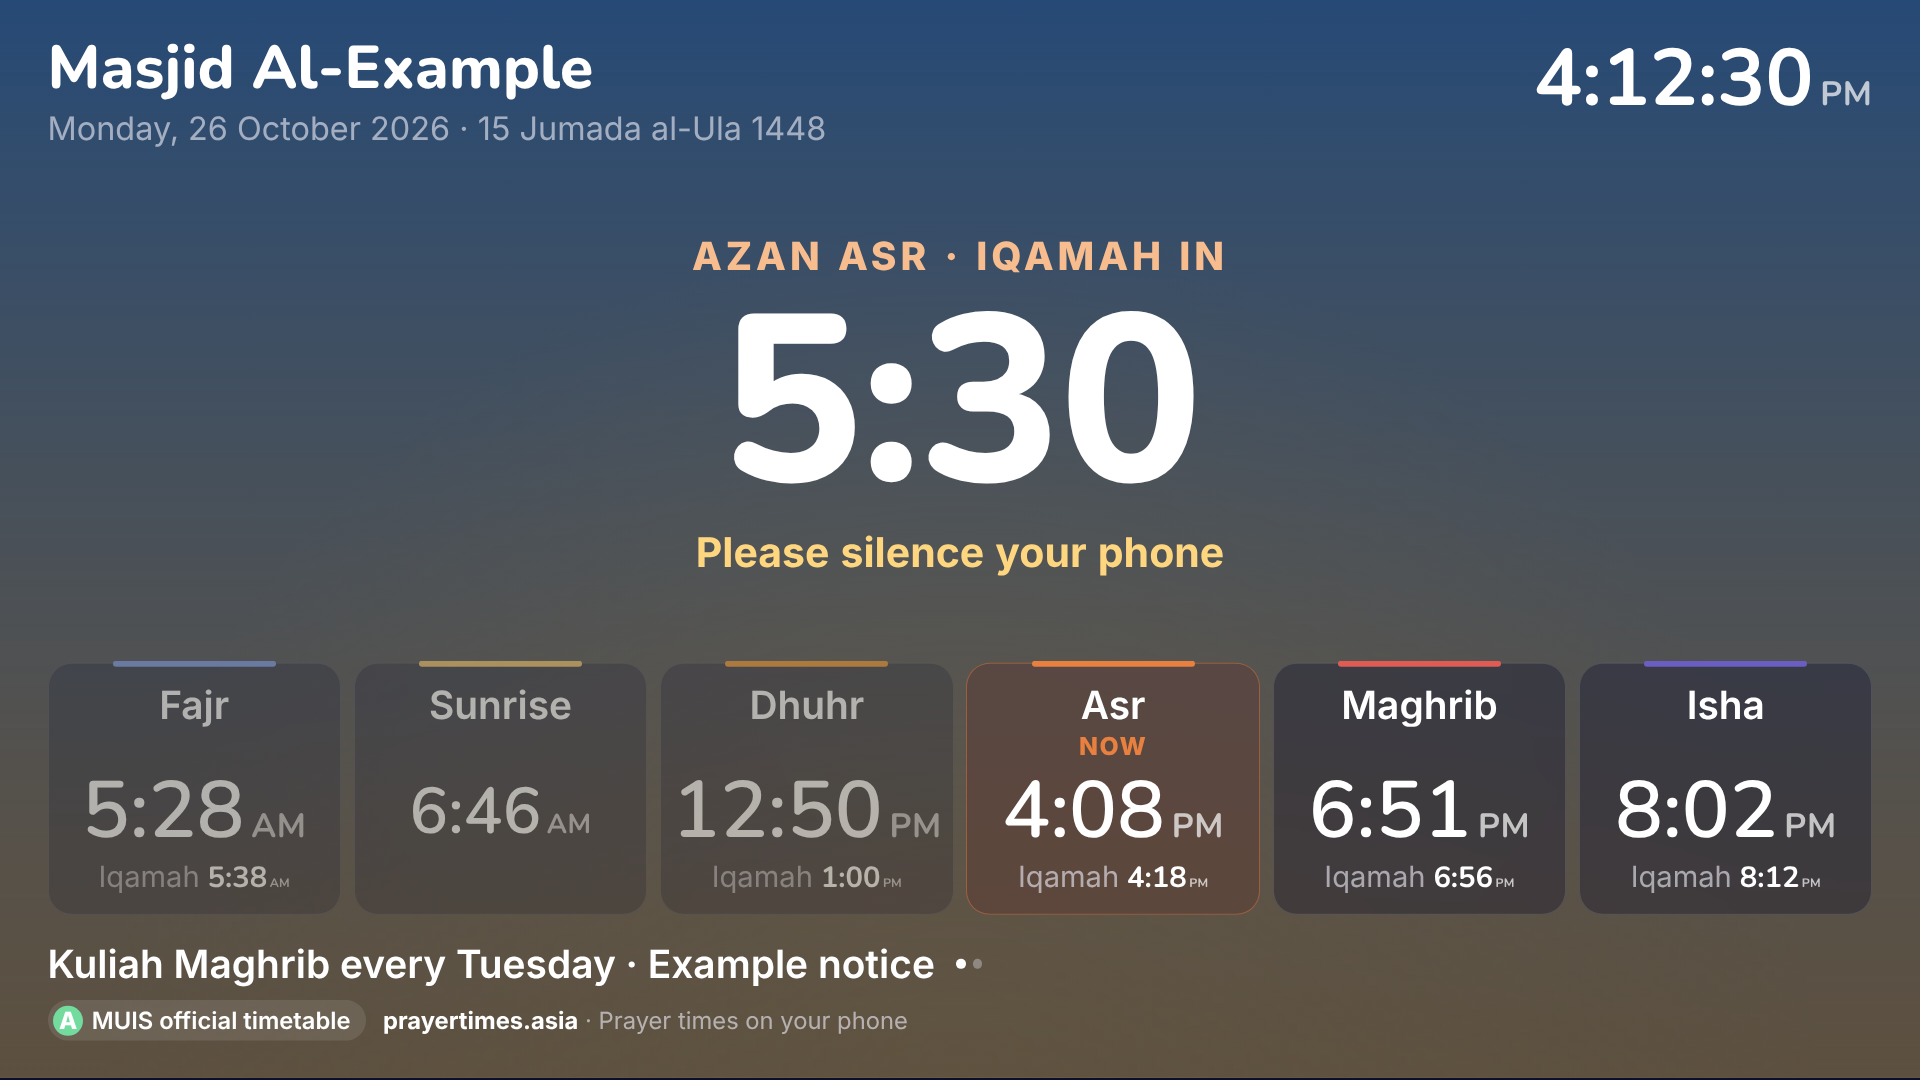
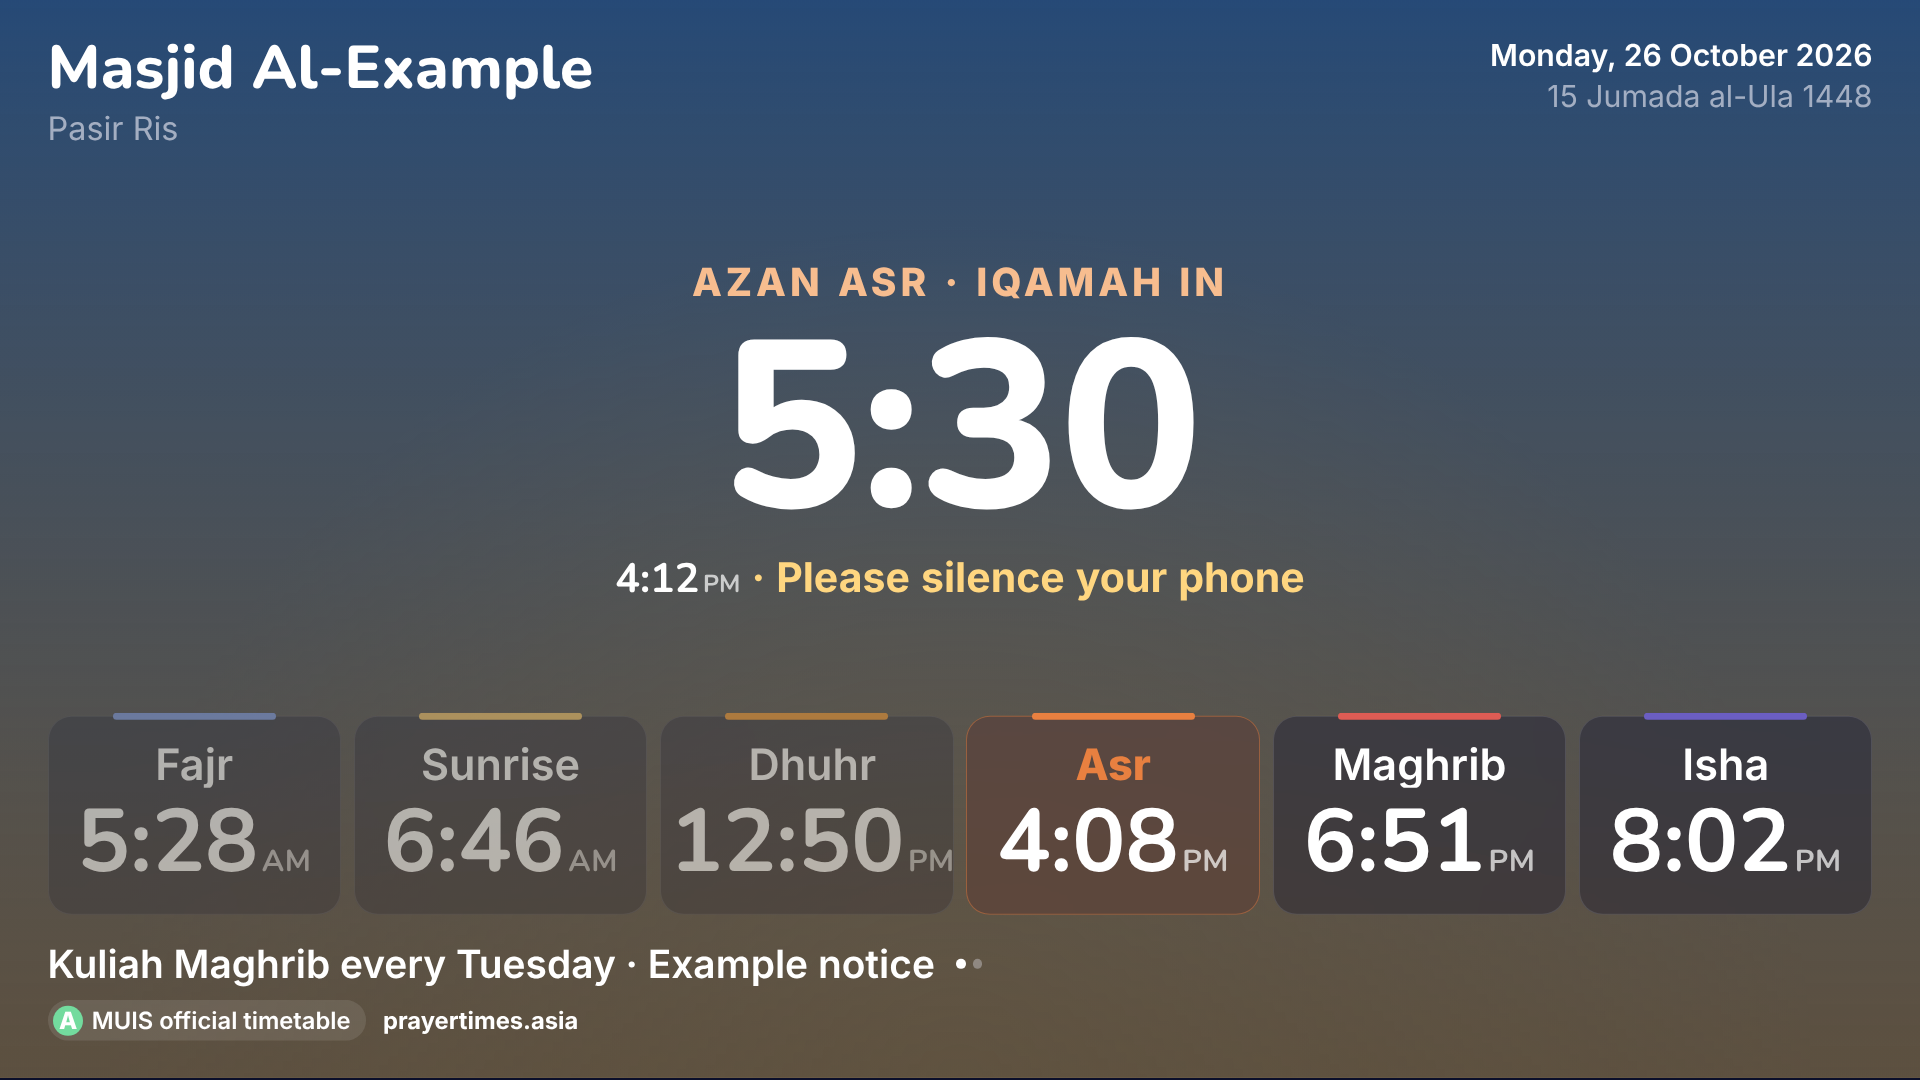
Masjid screen: one moving number, cleaner looks, iqamah hidden by default, readable dropdowns (#20)
* Web: masjid screen for TVs, with a setup page for the committee

A second page (web/screen/) shows the next prayer's countdown, the six times
with iqamah, Jumu'ah khutbah, Ramadan Imsak and rotating notices, using the
same official MUIS/JAKIM/Kemenag tables and engine as the app. It dims during
prayer, keeps the TV awake, shifts against burn-in and reloads at 3 am.
Setup is a phone form that produces one link (settings in the #hash).
docs/masjid-screen.md records the research behind it.

Claude-Session: https://claude.ai/code/session_01N3UT55kGUzTCzRML5iKXZQ

* Masjid screen: English by default, three looks (Night, Day, Board)

Claude-Session: https://claude.ai/code/session_01N3UT55kGUzTCzRML5iKXZQ

* Masjid screen: match the app's look (Living Sky, rounded type, glass cards)

Claude-Session: https://claude.ai/code/session_01N3UT55kGUzTCzRML5iKXZQ

* Masjid screen: Bands, Day Dial and Sun Path looks from the app's styles

Claude-Session: https://claude.ai/code/session_01N3UT55kGUzTCzRML5iKXZQ

* Masjid screen setup: fix overlap on phones, example preview, clearer steps

On phones the preview panel was pinned to the top and slid over the form.
It now sits after the form, and is pinned only on tall desktop windows.
The preview shows example times until a location is chosen. The form is
four numbered steps, then step 5 explains how to put it on the TV, with
a Share button on phones and the raw link tucked away.
[…]

diff --git a/web/src/screen/Display.tsx b/web/src/screen/Display.tsx
@@ -21,14 +21,13 @@ export function Display({ config: c, now, arabicTurn = false }: { config: Screen
   const sd = phase.day
   const arabic = c.arabic && arabicTurn
   const label = (p: Prayer) => name(p, c.names, sd.friday, arabic)
-  const clock = clockParts(now, tz, c.h24, true)
   const tint = phase.kind === 'waiting' ? phase.next : phase.prayer
   const hijriStyle = c.names === 'malay' || c.names === 'indonesian' ? c.names : 'arabic'
   // The app's Living Sky: the sky outside the masjid, right now.
   const today = screenDay(now, c, rowFor)!
   const isToday = sd === today || sd.day.day === today.day.day
-  const next = phase.kind === 'waiting' ? phase.next : null
-  const current = phase.kind === 'waiting' ? phase.current : phase.prayer
+  // One prayer is highlighted: the one people are waiting for (or the one being called now).
+  const focus: Prayer = phase.kind === 'waiting' ? phase.next : phase.prayer
 
   return (
     <div class={`scr scr-${phase.kind} scr-look-${c.look}`} style={{ '--tint': `var(--t-${tint})` }}>
@@ -37,12 +36,12 @@ export function Display({ config: c, now, arabicTurn = false }: { config: Screen
       <header class="scr-head">
         <div class="scr-title">
           <h1>{c.name || c.place.name}</h1>
-          <p>{gregorianDate(now, tz, c.lang)} · {formatHijri(now, tz, hijriStyle, c.hijriAdj)}</p>
+          {c.name && <p>{c.place.name}</p>}
         </div>
-        <div class="scr-clock">{clock.time}{clock.suffix && <small>{clock.suffix}</small>}</div>
+        <p class="scr-date">{gregorianDate(now, tz, c.lang)}<br />{formatHijri(now, tz, hijriStyle, c.hijriAdj)}</p>
       </header>
 
-      {c.look === 'dial' && <Dial sd={sd} now={now} config={c} label={label} current={current} upcoming={next} isToday={isToday} />}
+      {c.look === 'dial' && <Dial sd={sd} now={now} config={c} label={label} focus={focus} isToday={isToday} />}
 
       <Hero phase={phase} now={now} config={c} label={label} />
 
@@ -50,7 +49,7 @@ export function Display({ config: c, now, arabicTurn = false }: { config: Screen
         <section class="scr-sun" aria-hidden="true"><SunPath width={1600} height={240} now={now} day={sd.day} tz={tz} /></section>
       )}
 
-      <ol class="scr-grid">
+      <ol class={`scr-grid${c.showIqamah ? '' : ' no-iq'}`}>
         {sd.imsak != null && (
           <li class="scr-cell scr-imsak">
             <span class="scr-name">{w.imsak}</span>
@@ -58,18 +57,16 @@ export function Display({ config: c, now, arabicTurn = false }: { config: Screen
           </li>
         )}
         {PRAYERS.map((p) => {
-          const on = phase.kind === 'waiting' ? phase.current === p : phase.prayer === p
-          const iq = p === 'sunrise' ? undefined : sd.iqamah[p]
+          const on = p === focus
+          const iq = p === 'sunrise' || !c.showIqamah ? undefined : sd.iqamah[p]
           const sub = p === 'maghrib' && sd.ramadan ? w.iftar : null
           const passed = isToday && !on && sd.day.times[p] <= now
-          const tag = on ? w.nowTag : p === next && phase.kind === 'waiting' ? w.inTag(shortLeft(phase.at - now)) : null
           return (
             <li key={p} class={`scr-cell p-${p}${on ? ' on' : ''}${passed ? ' passed' : ''}${p === 'sunrise' ? ' scr-syuruk' : ''}`} style={{ '--tint': `var(--t-${p})` }}>
               <i class="scr-bar" />
               <span class="scr-name">{label(p)}{sub && <em> · {sub}</em>}</span>
-              <span class="scr-tag">{tag ?? '\u00a0'}</span>
               <Time ms={sd.day.times[p]} tz={tz} h24={c.h24} />
-              <span class="scr-iq">{iq != null ? <>{p === 'dhuhr' && sd.friday && c.jumuah ? w.khutbah : w.iqamah} <Time ms={iq} tz={tz} h24={c.h24} small /></> : ' '}</span>
+              {c.showIqamah && <span class="scr-iq">{iq != null ? <>{p === 'dhuhr' && sd.friday && c.jumuah ? w.khutbah : w.iqamah} <Time ms={iq} tz={tz} h24={c.h24} small /></> : ' '}</span>}
             </li>
           )
         })}
@@ -79,7 +76,7 @@ export function Display({ config: c, now, arabicTurn = false }: { config: Screen
         <Notice notices={c.notices} now={now} />
         <p class="scr-brand">
           <span class="scr-pill"><b class={`scr-grade g-${sd.day.grade}`}>{sd.day.grade}</b>{sd.source}</span>
-          <span><b>prayertimes.asia</b> · {w.getApp}</span>
+          <span><b>prayertimes.asia</b></span>
         </p>
       </footer>
 
@@ -98,23 +95,23 @@ export function Display({ config: c, now, arabicTurn = false }: { config: Screen
  * The app's Day Dial: the day as a ring in the sky's colours, each azan and iqamah at its hour.
  * Drawn at 600 px and scaled to the screen (--ds), since the dial lays its labels out in pixels.
  */
-function Dial({ sd, now, config: c, label, current, upcoming, isToday }: {
+function Dial({ sd, now, config: c, label, focus, isToday }: {
   sd: NonNullable<ReturnType<typeof screenDay>>; now: number; config: ScreenConfig; label: (p: Prayer) => string
-  current: Prayer | null; upcoming: Prayer | null; isToday: boolean
+  focus: Prayer; isToday: boolean
 }) {
   const w = WORDS[c.lang]
   const tz = c.place!.tz
   const nextFajr = screenDay(sd.day.times.dhuhr + 86_400_000, c, rowFor)?.day.times.fajr ?? sd.day.times.fajr + 86_400_000
-  const marks: DialMark[] = PRAYERS.map((p) => ({ id: p, date: sd.day.times[p], extraLine: p !== 'sunrise' && sd.iqamah[p] != null, tint: `var(--t-${p})` }))
+  const marks: DialMark[] = PRAYERS.map((p) => ({ id: p, date: sd.day.times[p], extraLine: c.showIqamah && p !== 'sunrise' && sd.iqamah[p] != null, tint: `var(--t-${p})` }))
   if (sd.imsak != null) marks.push({ id: 'imsak', date: sd.imsak, minor: true })
   return (
     <section class="scr-dialbox">
-      <HeroDial size={600} now={now} day={sd.day} nextFajr={nextFajr} tz={tz} currentPrayer={isToday ? current : null} marks={marks}
+      <HeroDial size={600} now={now} day={sd.day} nextFajr={nextFajr} tz={tz} currentPrayer={isToday ? focus : null} marks={marks}
         label={(m) => {
           if (m.id === 'imsak') return <div class="scr-dm minor"><span class="scr-dm-name">{w.imsak}</span><Time ms={m.date} tz={tz} h24={c.h24} small /></div>
           const p = m.id as Prayer
-          const on = p === current
-          const iq = p === 'sunrise' ? undefined : sd.iqamah[p]
+          const on = p === focus
+          const iq = p === 'sunrise' || !c.showIqamah ? undefined : sd.iqamah[p]
           const passed = isToday && !on && m.date <= now
           return (
             <div class={`scr-dm${on ? ' on' : ''}${passed ? ' passed' : ''}`} style={{ '--tint': `var(--t-${p})` }}>
@@ -124,41 +121,43 @@ function Dial({ sd, now, config: c, label, current, upcoming, isToday }: {
             </div>
           )
         }}
-        centre={() => current
-          ? <div class="scr-dial-centre" style={{ '--tint': `var(--t-${current})` }}><span>{w.nowTag}</span><b>{label(current)}</b></div>
-          : upcoming ? <div class="scr-dial-centre" style={{ '--tint': `var(--t-${upcoming})` }}><span>{w.next}</span><b>{label(upcoming)}</b></div> : null} />
+        centre={() => <div class="scr-dial-centre" style={{ '--tint': `var(--t-${focus})` }}><span>{w.next}</span><b>{label(focus)}</b></div>} />
     </section>
   )
 }
 
+/**
+ * The one thing that moves each second. Waiting: the clock (seconds small) and the next prayer,
+ * whose "in 40m" changes only once a minute. After the azan: the iqamah countdown takes over,
+ * and the clock steps down to hours and minutes.
+ */
 function Hero({ phase, now, config: c, label }: { phase: Phase; now: number; config: ScreenConfig; label: (p: Prayer) => string }) {
   const w = WORDS[c.lang]
   const tz = c.place!.tz
+  const clock = clockParts(now, tz, c.h24)
   if (phase.kind === 'azan') {
-    if (phase.iqamah == null) {
-      return <section class="scr-hero"><p class="scr-kicker">{w.azan}</p><p class="scr-big">{label(phase.prayer)}</p><p class="scr-line">{w.silence}</p></section>
-    }
-    const left = phase.iqamah - now
     const jumuah = phase.prayer === 'dhuhr' && phase.day.friday && !!c.jumuah
+    const left = phase.iqamah == null ? 0 : phase.iqamah - now
     return (
-      <section class={`scr-hero${left <= 60_000 ? ' scr-final' : ''}`}>
-        <p class="scr-kicker">{w.azan} {label(phase.prayer)} · {jumuah ? w.khutbah : w.iqamahIn}</p>
-        <p class="scr-big">{countdown(left)}</p>
-        <p class="scr-line">{w.silence}</p>
+      <section class={`scr-hero${phase.iqamah != null && left <= 60_000 ? ' scr-final' : ''}`}>
+        <p class="scr-kicker">{w.azan} {label(phase.prayer)}{phase.iqamah != null && <> · {jumuah ? w.khutbah : w.iqamahIn}</>}</p>
+        <p class="scr-big">{phase.iqamah != null ? countdown(left) : label(phase.prayer)}</p>
+        <p class="scr-line"><span class="scr-now">{clock.time}{clock.suffix && <small>{clock.suffix}</small>}</span> · {w.silence}</p>
       </section>
     )
   }
   if (phase.kind === 'prayer') return <section class="scr-hero" />
   const next = phase.next
-  const iq = next === 'sunrise' ? undefined : phase.day.iqamah[next]
-  const title = next === 'sunrise' ? w.ends(label('fajr')) : label(next)
+  const iq = next === 'sunrise' || !c.showIqamah ? undefined : phase.day.iqamah[next]
+  const sec = String(Math.floor(now / 1000) % 60).padStart(2, '0')
   return (
     <section class="scr-hero">
-      <p class="scr-kicker">{w.next} · {title}</p>
-      <p class="scr-big">{countdown(phase.at - now)}</p>
-      <p class="scr-line">
-        {label(next)} <Time ms={phase.at} tz={tz} h24={c.h24} />
-        {iq != null && <> · {next === 'dhuhr' && phase.day.friday && c.jumuah ? w.khutbah : w.iqamah} <Time ms={iq} tz={tz} h24={c.h24} /></>}
+      <p class="scr-big scr-clockbig">{clock.time}<span class="scr-sec">{sec}</span>{clock.suffix && <small>{clock.suffix}</small>}</p>
+      <p class="scr-next" style={{ '--tint': `var(--t-${next})` }}>
+        <span class="scr-next-name">{next === 'sunrise' ? w.ends(label('fajr')) : label(next)}</span>
+        <Time ms={phase.at} tz={tz} h24={c.h24} />
+        {iq != null && <span class="scr-next-iq">{next === 'dhuhr' && phase.day.friday && c.jumuah ? w.khutbah : w.iqamah} <Time ms={iq} tz={tz} h24={c.h24} /></span>}
+        <span class="scr-in">{w.inTag(shortLeft(phase.at - now))}</span>
       </p>
     </section>
   )

diff --git a/web/src/screen/screen.css b/web/src/screen/screen.css
@@ -335,3 +335,75 @@ textarea { resize: vertical; }
 .scr-look-bands .scr-cell .scr-iq .scr-t { font-size: calc(var(--u) * 3.4); font-family: var(--font-display); font-weight: 700; }
 .scr-sun svg circle[r="7"] { r: 15px; }
 .scr-sun svg circle[r="17"] { r: 36px; }
+
+/* MARK: One moving thing (v3)
+   Waiting: the clock is the hero (seconds small), the next prayer sits under it and changes once a minute.
+   After the azan: the iqamah countdown is the hero and the clock steps down to hh:mm. */
+.scr-date { margin: 0; text-align: right; font-size: calc(var(--u) * 2.8); line-height: 1.35; color: var(--fg2); white-space: nowrap; font-variant-numeric: normal; }
+.scr-date::first-line { color: var(--fg); font-weight: 600; }
+.scr-clockbig { display: inline-flex; align-items: baseline; font-weight: 700; letter-spacing: -0.02em; }
+.scr-sec { font-size: 0.3em; font-weight: 600; color: var(--fg3); margin-left: 0.12em; min-width: 1.25em; }
+.scr-clockbig small { font-size: 0.22em; font-weight: 700; color: var(--fg2); margin-left: 0.3em; letter-spacing: 0.04em; }
+.scr-next {
+  margin: calc(var(--u) * 1.2) 0 0; display: inline-flex; align-items: baseline; flex-wrap: wrap; justify-content: center;
+  gap: calc(var(--u) * 0.6) calc(var(--u) * 2.2); padding: calc(var(--u) * 1.2) calc(var(--u) * 3);
+  border-radius: 999px; background: var(--glass); border: 1px solid color-mix(in srgb, var(--tint) 50%, transparent);
+  font-size: calc(var(--u) * 4); -webkit-backdrop-filter: blur(22px); backdrop-filter: blur(22px);
+}
+.scr-next-name { font-weight: 800; color: var(--tint); font-variant-numeric: normal; }
+.scr-next > .scr-t { font-weight: 700; }
+.scr-next .scr-t small { font-size: 0.5em; }
+.scr-next-iq { color: var(--fg2); font-size: 0.8em; font-variant-numeric: normal; }
+.scr-next-iq .scr-t { color: var(--fg); font-weight: 700; }
+.scr-in { font-weight: 700; color: var(--accent); font-size: 0.8em; font-variant-numeric: normal; }
+.scr-now { color: var(--fg); font-family: var(--font-display); font-weight: 700; }
+.scr-now small { font-size: 0.6em; margin-left: 0.15em; opacity: 0.7; }
+.scr-azan .scr-line { color: var(--gold); }
+/* The highlighted card is the next prayer: a tinted outline and a stronger time. */
+.scr-cell.on .scr-name { color: var(--tint); font-weight: 800; }
+.scr-look-bands .scr-cell.on .scr-name { color: #fff; }
+/* Bands: the hero sits on the left beside the bands. */
+.landscape .scr-look-bands .scr-head { flex-direction: column; }
+.landscape .scr-look-bands .scr-date { text-align: left; }
+.landscape .scr-look-bands .scr-big, .landscape .scr-look-board .scr-big, .landscape .scr-look-dial .scr-big { font-size: calc(var(--u) * 16); }
+.landscape .scr-look-bands .scr-next, .landscape .scr-look-board .scr-next, .landscape .scr-look-dial .scr-next { font-size: calc(var(--u) * 3.2); padding-inline: calc(var(--u) * 2); }
+.scr-look-sunpath .scr-big { font-size: calc(var(--u) * 15); }
+.portrait .scr-head { flex-direction: column; }
+.portrait .scr-date { text-align: left; }
+/* Setup: dropdown lists in the page's colours (Windows draws them white otherwise). */
+select { color-scheme: dark; }
+select option { background-color: #161a36; color: #fff; }
+.scr-look-board .scr-cell .scr-iq .scr-t { font-size: calc(var(--u) * 3.4); }
+
+/* Bigger prayer times: without the iqamah line the times take the space (the times are what people read). */
+.scr-grid.no-iq .scr-cell { gap: calc(var(--u) * 0.4); padding-block: calc(var(--u) * 2.2); }
+.scr-grid.no-iq .scr-cell .scr-t { font-size: calc(var(--u) * 9); font-weight: 700; }
+.scr-grid.no-iq .scr-syuruk .scr-t, .scr-grid.no-iq .scr-imsak .scr-t { font-size: calc(var(--u) * 7); }
+.scr-grid.no-iq .scr-name { font-size: calc(var(--u) * 4); }
+.scr-look-board .scr-grid.no-iq .scr-cell { grid-template-columns: minmax(0, 1fr) auto; grid-template-areas: "name time"; padding-block: calc(var(--u) * 1.2); }
+.scr-look-board .scr-grid.no-iq .scr-cell .scr-t { font-size: calc(var(--u) * 7.4); }
+.scr-look-board .scr-grid.no-iq .scr-name { font-size: calc(var(--u) * 4.4); }
+.scr-look-bands .scr-grid.no-iq .scr-cell { grid-template-areas: "name time"; align-items: center; }
+.scr-look-bands .scr-grid.no-iq .scr-cell .scr-t { font-size: calc(var(--u) * 9.4); font-weight: 400; }
+.scr-look-bands .scr-grid.no-iq .scr-name { font-size: calc(var(--u) * 5.2); }
+.scr-dm .scr-t { font-size: 38px; }
+.scr-dm-name { font-size: 23px; }
+.scr-next { font-size: calc(var(--u) * 4.6); }
+
+/* Bigger prayer times: without the iqamah line the times take the space (the times are what people read). */
+.scr-grid.no-iq .scr-cell { gap: calc(var(--u) * 0.4); padding-block: calc(var(--u) * 2.2); }
+.scr-grid.no-iq .scr-cell .scr-t { font-size: calc(var(--u) * 9); font-weight: 700; }
+.scr-grid.no-iq .scr-syuruk .scr-t, .scr-grid.no-iq .scr-imsak .scr-t { font-size: calc(var(--u) * 7); }
+.scr-grid.no-iq .scr-name { font-size: calc(var(--u) * 4); }
+.scr-look-board .scr-grid.no-iq .scr-cell { grid-template-columns: minmax(0, 1fr) auto; grid-template-areas: "name time"; padding-block: calc(var(--u) * 1.2); }
+.scr-look-board .scr-grid.no-iq .scr-cell .scr-t { font-size: calc(var(--u) * 7.4); }
+.scr-look-board .scr-grid.no-iq .scr-name { font-size: calc(var(--u) * 4.4); }
+.scr-look-bands .scr-grid.no-iq .scr-cell { grid-template-areas: "name time"; align-items: center; }
+.scr-look-bands .scr-grid.no-iq .scr-cell .scr-t { font-size: calc(var(--u) * 9.4); font-weight: 400; }
+.scr-look-bands .scr-grid.no-iq .scr-name { font-size: calc(var(--u) * 5.2); }
+.scr-dm .scr-t { font-size: 38px; }
+.scr-dm-name { font-size: 23px; }
+.scr-next { font-size: calc(var(--u) * 4.6); }
+.scr-grid.no-iq .scr-cell .scr-t { font-size: calc(var(--u) * 8.2); }
+.scr-grid.no-iq .scr-cell .scr-t small { font-size: 0.34em; margin-left: 0.12em; }
+.portrait .scr-grid.no-iq .scr-cell .scr-t { font-size: calc(var(--u) * 10); }

diff --git a/web/src/screen/Setup.tsx b/web/src/screen/Setup.tsx
@@ -133,7 +133,7 @@ export function Setup({ initial, now, onOpen }: { initial: ScreenConfig; now: nu
 
           <fieldset>
             <legend><span class="step">2</span>Iqamah times</legend>
-            <p class="muted small">For each prayer, type how many minutes after the azan the iqamah starts (for example 10), or a fixed time (for example 13:15). Leave a box empty to skip the iqamah countdown for that prayer.</p>
+            <p class="muted small">After the azan the screen counts down to the iqamah. For each prayer, type how many minutes after the azan the iqamah starts (for example 10), or a fixed time (for example 13:15). Leave a box empty to skip the countdown for that prayer.</p>
             <div class="setup-iq">
               {OBLIGATORY_PRAYERS.map((p) => (
                 <div key={p}>
@@ -144,6 +144,7 @@ export function Setup({ initial, now, onOpen }: { initial: ScreenConfig; now: nu
                 </div>
               ))}
             </div>
+            <label class="check"><input id="s-showiq" type="checkbox" checked={c.showIqamah} onChange={(e) => set({ showIqamah: (e.target as HTMLInputElement).checked })} /> Also print the iqamah times on the screen (most jemaah only need the prayer times)</label>
             <label for="s-jumuah">Friday khutbah starts (24-hour, for example 13:00)</label>
             <input id="s-jumuah" value={c.jumuah ?? ''} placeholder="13:00" inputMode="numeric"
               onInput={(e) => { const v = (e.target as HTMLInputElement).value.trim(); set({ jumuah: isHHMM(v) ? v.padStart(5, '0') : null }) }} />

diff --git a/web/src/screen/config.ts b/web/src/screen/config.ts
@@ -43,6 +43,8 @@ export interface ScreenConfig {
   lang: ScreenLanguage
   look: ScreenLook
   iqamah: Partial<Record<Obligatory, IqamahRule>>
+  /** Print iqamah times beside the azan times (off: the countdown after the azan still runs). */
+  showIqamah: boolean
   /** Khutbah starts, "HH:mm"; Friday's Zohor becomes Jumu'ah. */
   jumuah: string | null
   notices: string[]
@@ -63,6 +65,7 @@ export const DEFAULT_CONFIG: ScreenConfig = {
   lang: 'en',
   look: 'night',
   iqamah: { fajr: { after: 10 }, dhuhr: { after: 10 }, asr: { after: 10 }, maghrib: { after: 5 }, isha: { after: 10 } },
+  showIqamah: false,
   jumuah: null,
   notices: [],
   h24: false,
@@ -135,6 +138,7 @@ export function sanitize(raw: unknown): ScreenConfig {
       else if (rule && typeof rule.after === 'number' && rule.after >= 0 && rule.after <= 60) out.iqamah[prayer] = { after: Math.round(rule.after) }
     }
   }
+  out.showIqamah = r.showIqamah === true
   out.jumuah = isHHMM(r.jumuah) ? r.jumuah : null
   if (Array.isArray(r.notices)) {
     out.notices = r.notices.filter((n): n is string => typeof n === 'string')

diff --git a/web/tests/screen.test.ts b/web/tests/screen.test.ts
@@ -41,6 +41,8 @@ describe('screen config', () => {
   it('defaults to English and the Night look, and keeps a chosen look', () => {
     expect(DEFAULT_CONFIG.lang).toBe('en')
     expect(DEFAULT_CONFIG.look).toBe('night')
+    expect(DEFAULT_CONFIG.showIqamah).toBe(false)
+    expect(sanitize({ showIqamah: true }).showIqamah).toBe(true)
     expect(sanitize({ look: 'board' }).look).toBe('board')
     expect(sanitize({ look: 'dial' }).look).toBe('dial')
     expect(sanitize({ look: 'disco' }).look).toBe('night')
